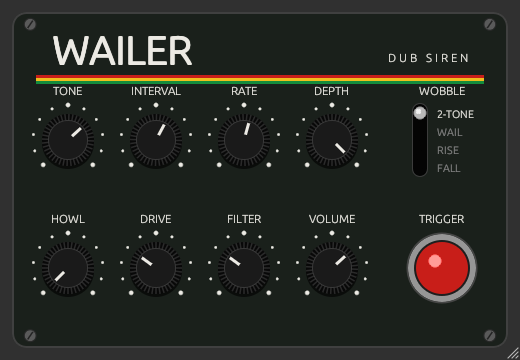
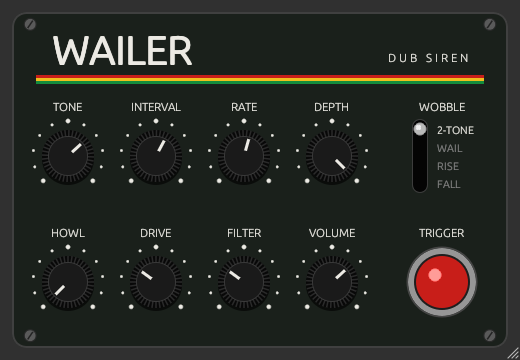
More space between the stripes and the first knob row

diff --git a/src/editor.rs b/src/editor.rs
@@ -110,7 +110,7 @@ fn siren_box(ui: &Ui, setter: &ParamSetter, params: &WailerParams) {
     // Four knob columns on the left, switch and trigger in the wider right column
     let col = |i: usize| body.left() + 12.0 + 88.0 * (i as f32 + 0.5);
     let right = (col(3) + 44.0 + body.right()) / 2.0;
-    let (row1, row2) = (body.top() + 128.0, body.top() + 256.0);
+    let (row1, row2) = (body.top() + 144.0, body.top() + 270.0);
     let rows = [
         (
             row1,

diff --git a/CLAUDE.md b/CLAUDE.md
@@ -34,6 +34,7 @@ cargo clippy --release --lib
   scaling are copied from Rodent's pedal editor (see `../rodent/CLAUDE.md` for how scaling works). The trigger
   button is momentary: it holds the `trigger` param on only while the mouse is down.
 - README screenshot: build a standalone copy in the scratchpad (`standalone` feature, `rlib` crate type, a
-  `main.rs` calling `nih_export_standalone`), run it with `--backend dummy`, and grab the window with `import`.
+  `main.rs` calling `nih_export_standalone`), run it with `--backend dummy`, and grab the window with `import`. Match its title exactly (`"Wailer": ()` in `xwininfo -root -tree`):
+  an open Bitwig instance has a "Wailer / Wailer" window that a loose grep picks up instead.
 - The audio thread must not allocate (`assert_process_allocs` is enabled).
 - `CLAP_ID` and `VST3_CLASS_ID` must never change, or saved Bitwig projects lose the plugin.
